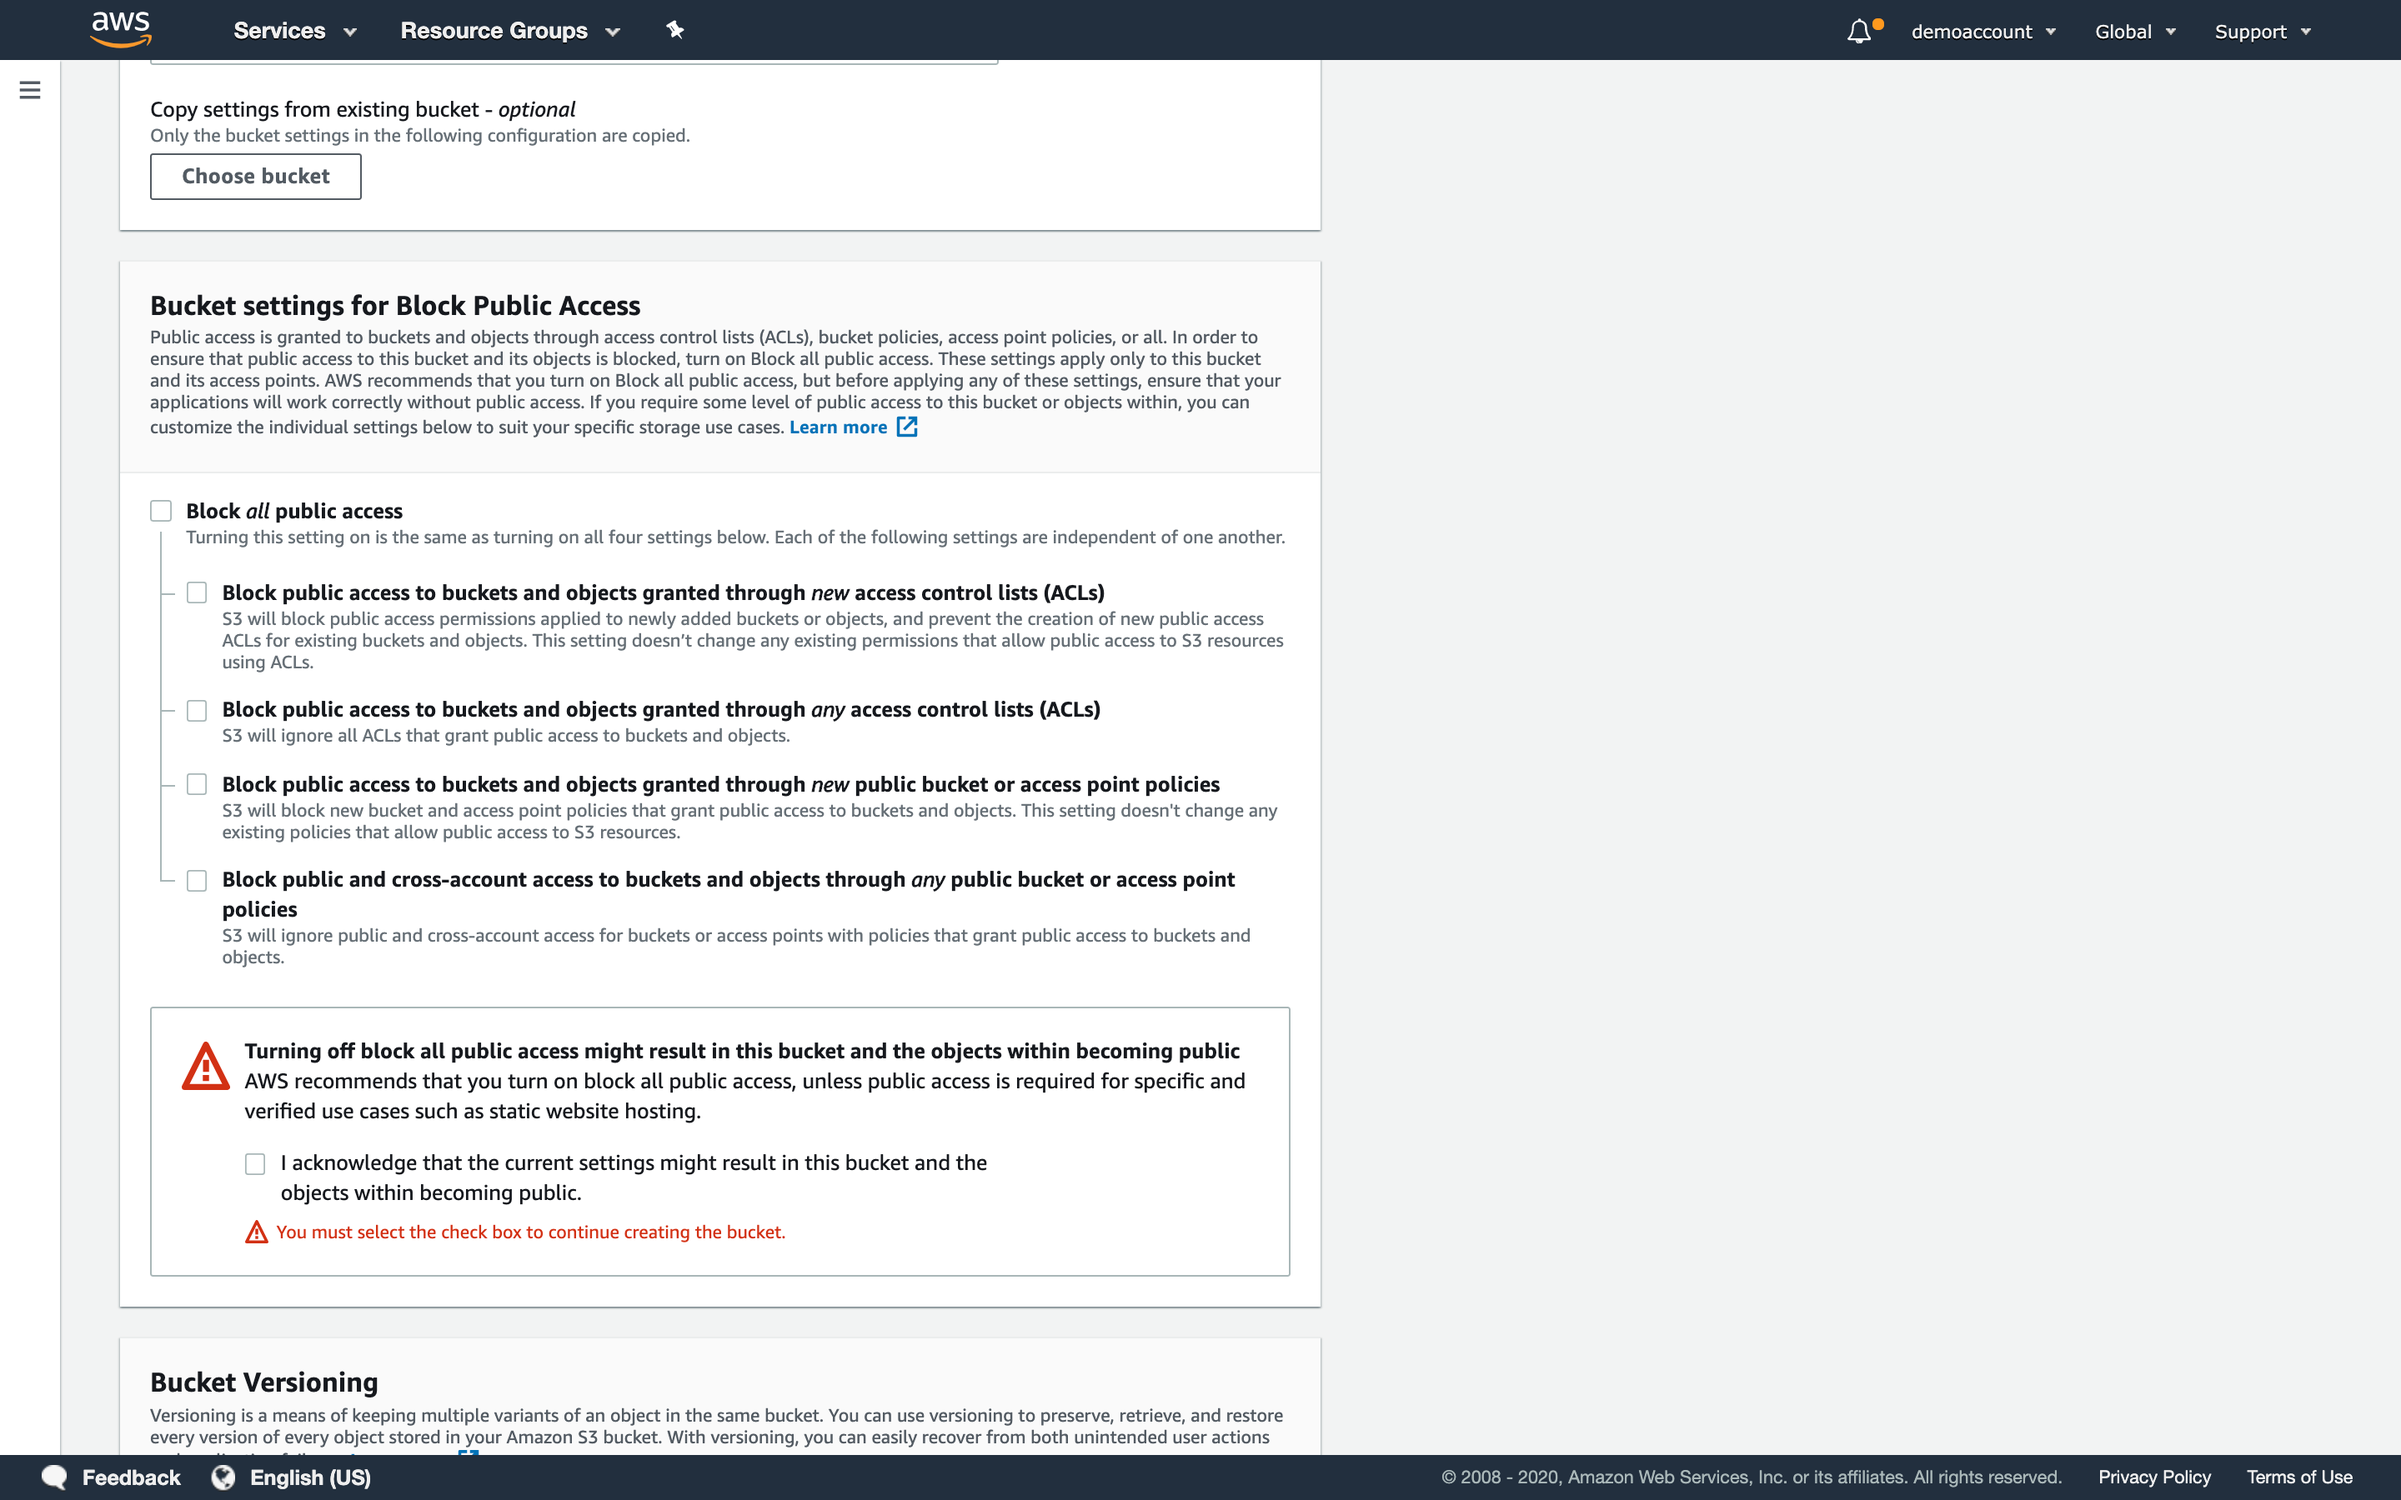
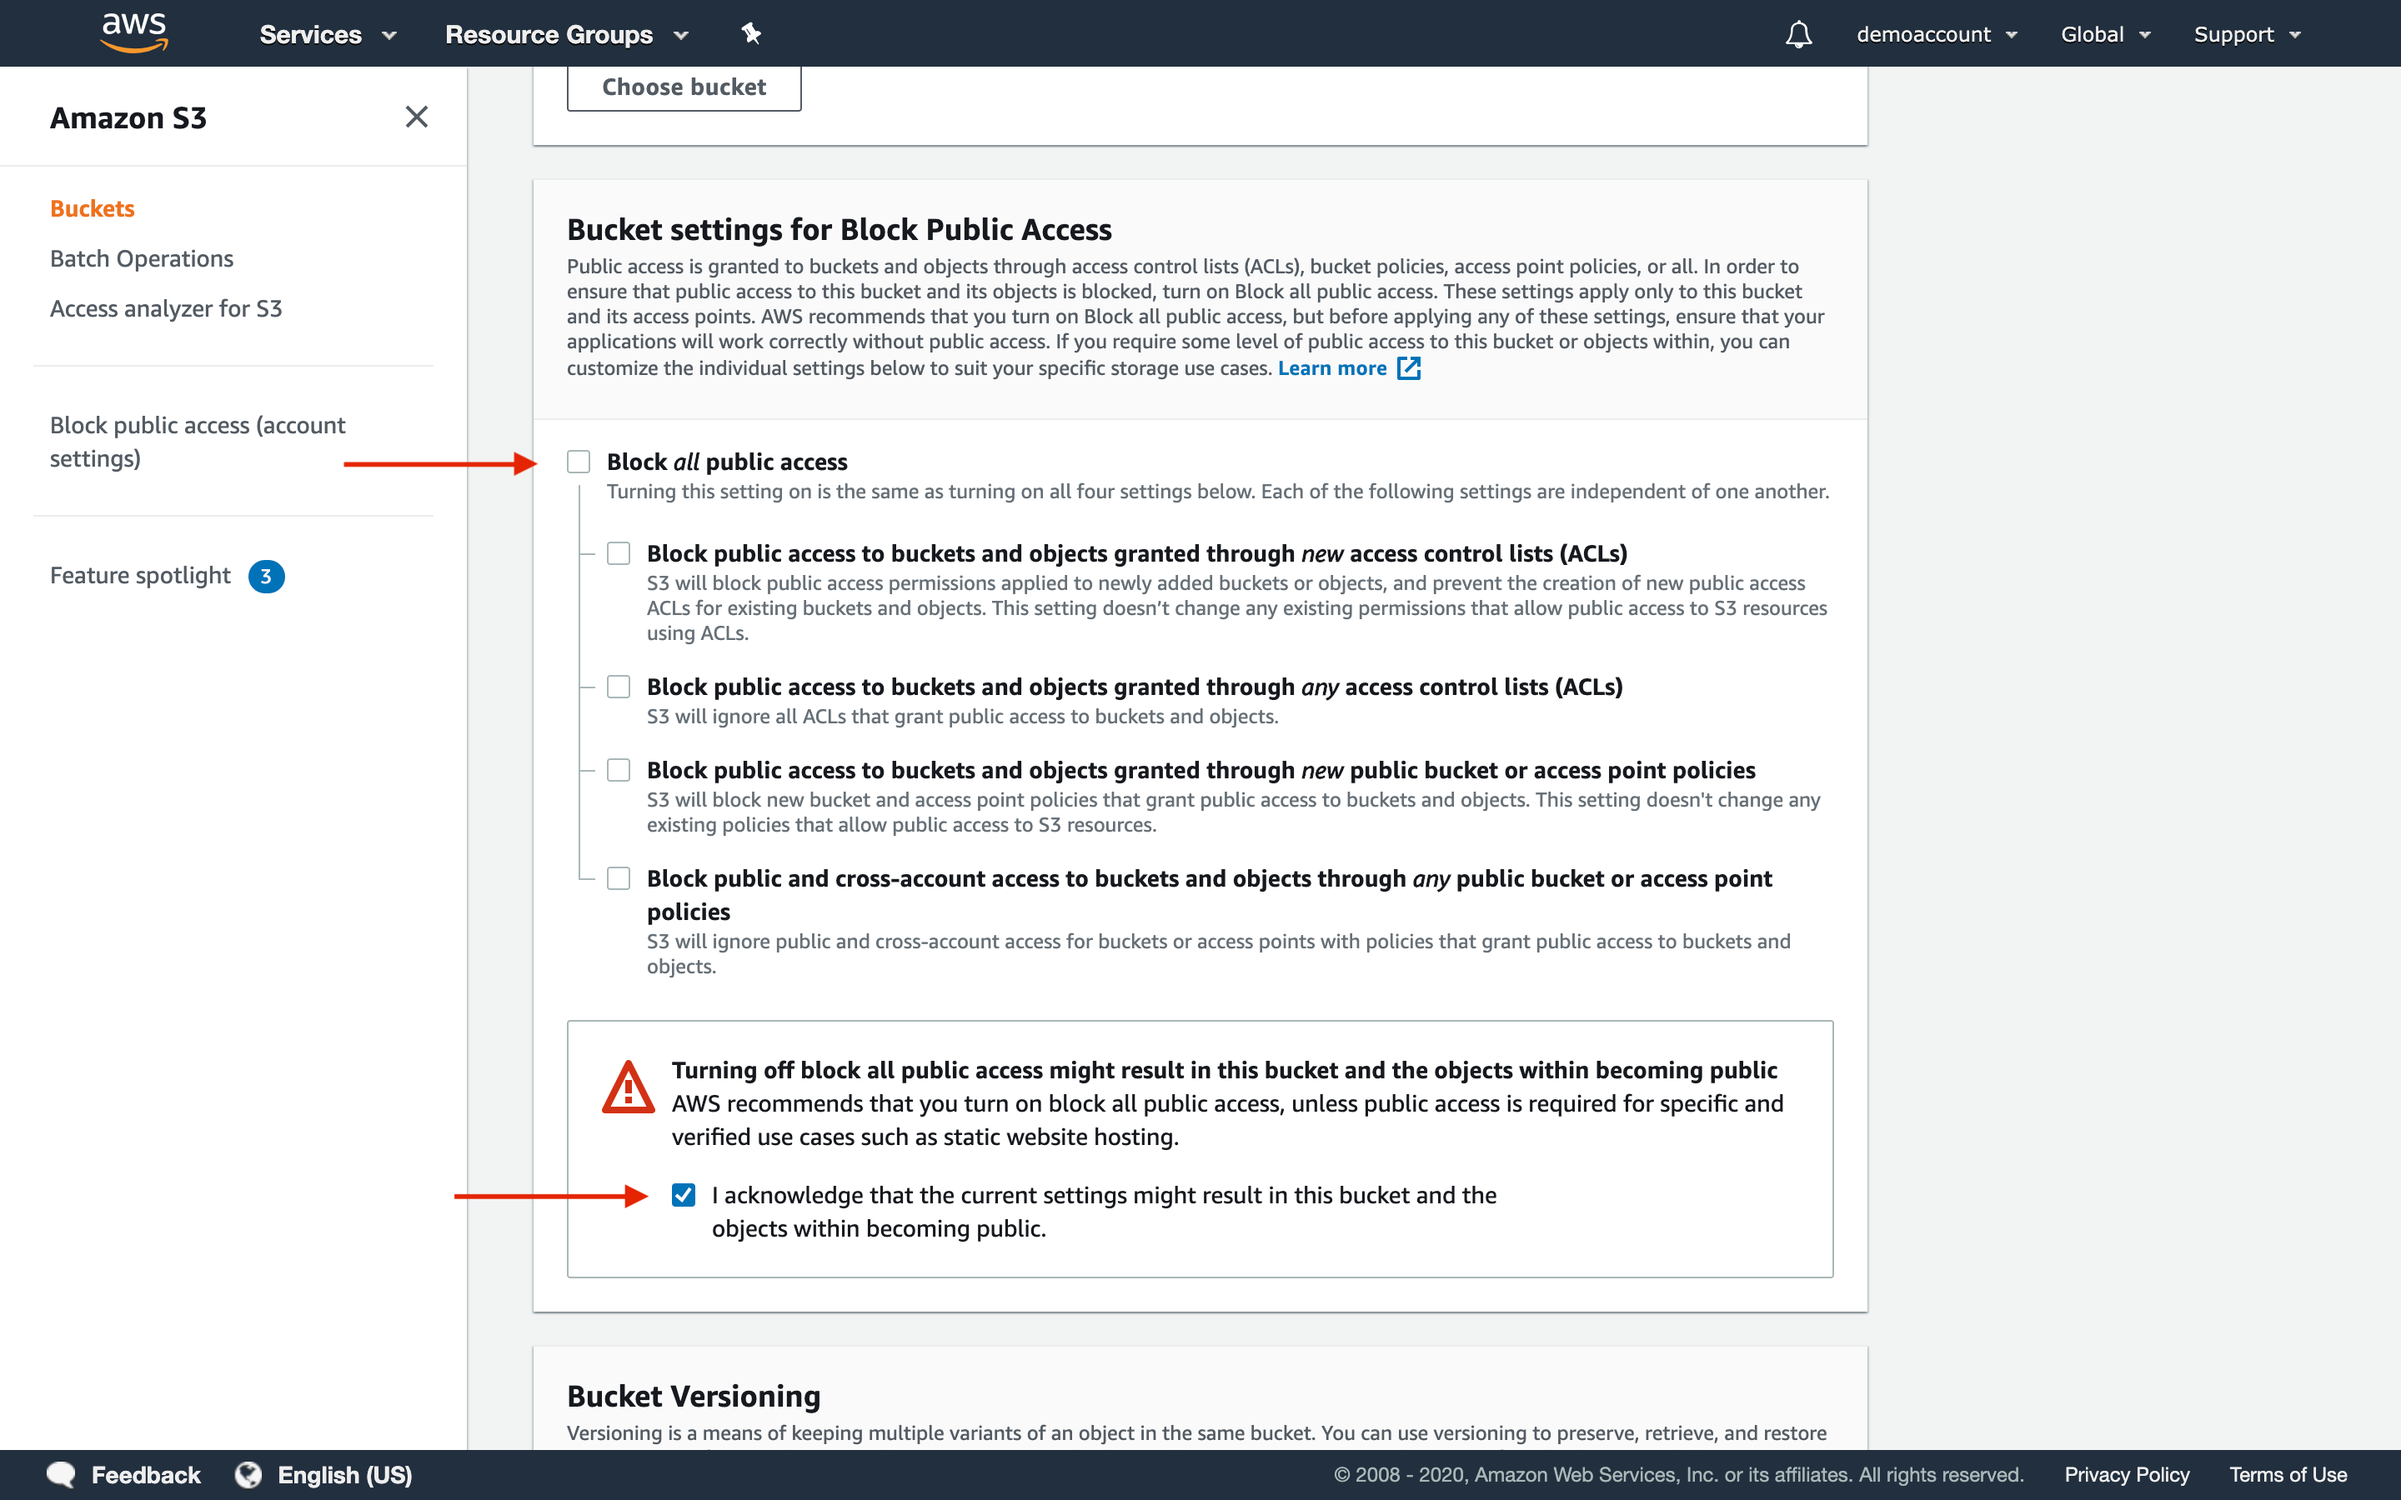
Adding content.

diff --git a/_posts/2020-09-12-serverless.md b/_posts/2020-09-12-serverless.md
@@ -1,7 +1,7 @@
 ---
 title: "Deploy a Serverless Website"
 date: 2020-09-12
-tags: [writing, aws]
+tags: [documentation, aws]
 header:
   image: "/images/banner-binary-3441007_1920.jpg"
 excerpt: "Serverless, Lambda, API Gateway, S3, Route53"
@@ -10,7 +10,7 @@ mathjax: "true"
 ## Deploy a Serverless Website with Lambda, API Gateway, S3 and Route53
 _____
 
-In this tutorial, you will learn how to deploy a serverless website utilizing S3 for static website hosting and Lambda and API Gateway to deliver dynamic content. Route53 may also be used to register and connect a domain name.
+In this tutorial, you will learn how to deploy a serverless website utilizing S3 for static website hosting,  Lambda and API Gateway to deliver dynamic content and optionally, Route53, to register and connect a domain name.
 
 In order to follow along you will need: 
 * an AWS account
@@ -37,20 +37,21 @@ In order to follow along you will need:
 
 - Name your bucket. 
 
-If you intend to use your own domain name, the bucket name must match the second-level domain name exactly. That is, the part of the domain before .com, .org, .edu, etc. 
+    If you intend to use your own domain name, the bucket name must match the second-level domain name exactly. That is, the part of the domain before .com, .org, .edu, etc. 
 
-Additionally, remember that bucket names must be globally unique. Globally meaning, unique across all AWS accounts, not just your account.
+    Additionally, remember that bucket names must be globally unique. Globally meaning, unique across all AWS accounts, not just your account.
 
-Be sure to note the ***Region*** for this bucket.  S3, Lambda, and API Gateway are all regional services.
+    Be sure to note the ***Region*** for this bucket.  S3, Lambda, and API Gateway are all regional services.
 
 <img src="{{ site.url }}{{ site.baseurl }}/images/2020-09-12-serverless/step3-createbucket-2.png" alt="AWS Screenshot" width="640">
 
-- Uncheck ***Block all public access***. This will bring up a warning and prompt you to acknowledge the risks. Select ***I acknowledge...***
+- Uncheck ***Block all public access***. This will bring up a warning and prompt you to acknowledge the risks. Select ***I acknowledge***...
 
 <img src="{{ site.url }}{{ site.baseurl }}/images/2020-09-12-serverless/step3-createbucket-3.png" alt="AWS Screenshot" width="640">
 
 - Click ***Create bucket***.
 
+<img src="{{ site.url }}{{ site.baseurl }}/images/2020-09-12-serverless/step3-createbucket-4.png" alt="AWS Screenshot" width="640">
 
 ## Step 3b (Optional): Make your S3 bucket public.
 
